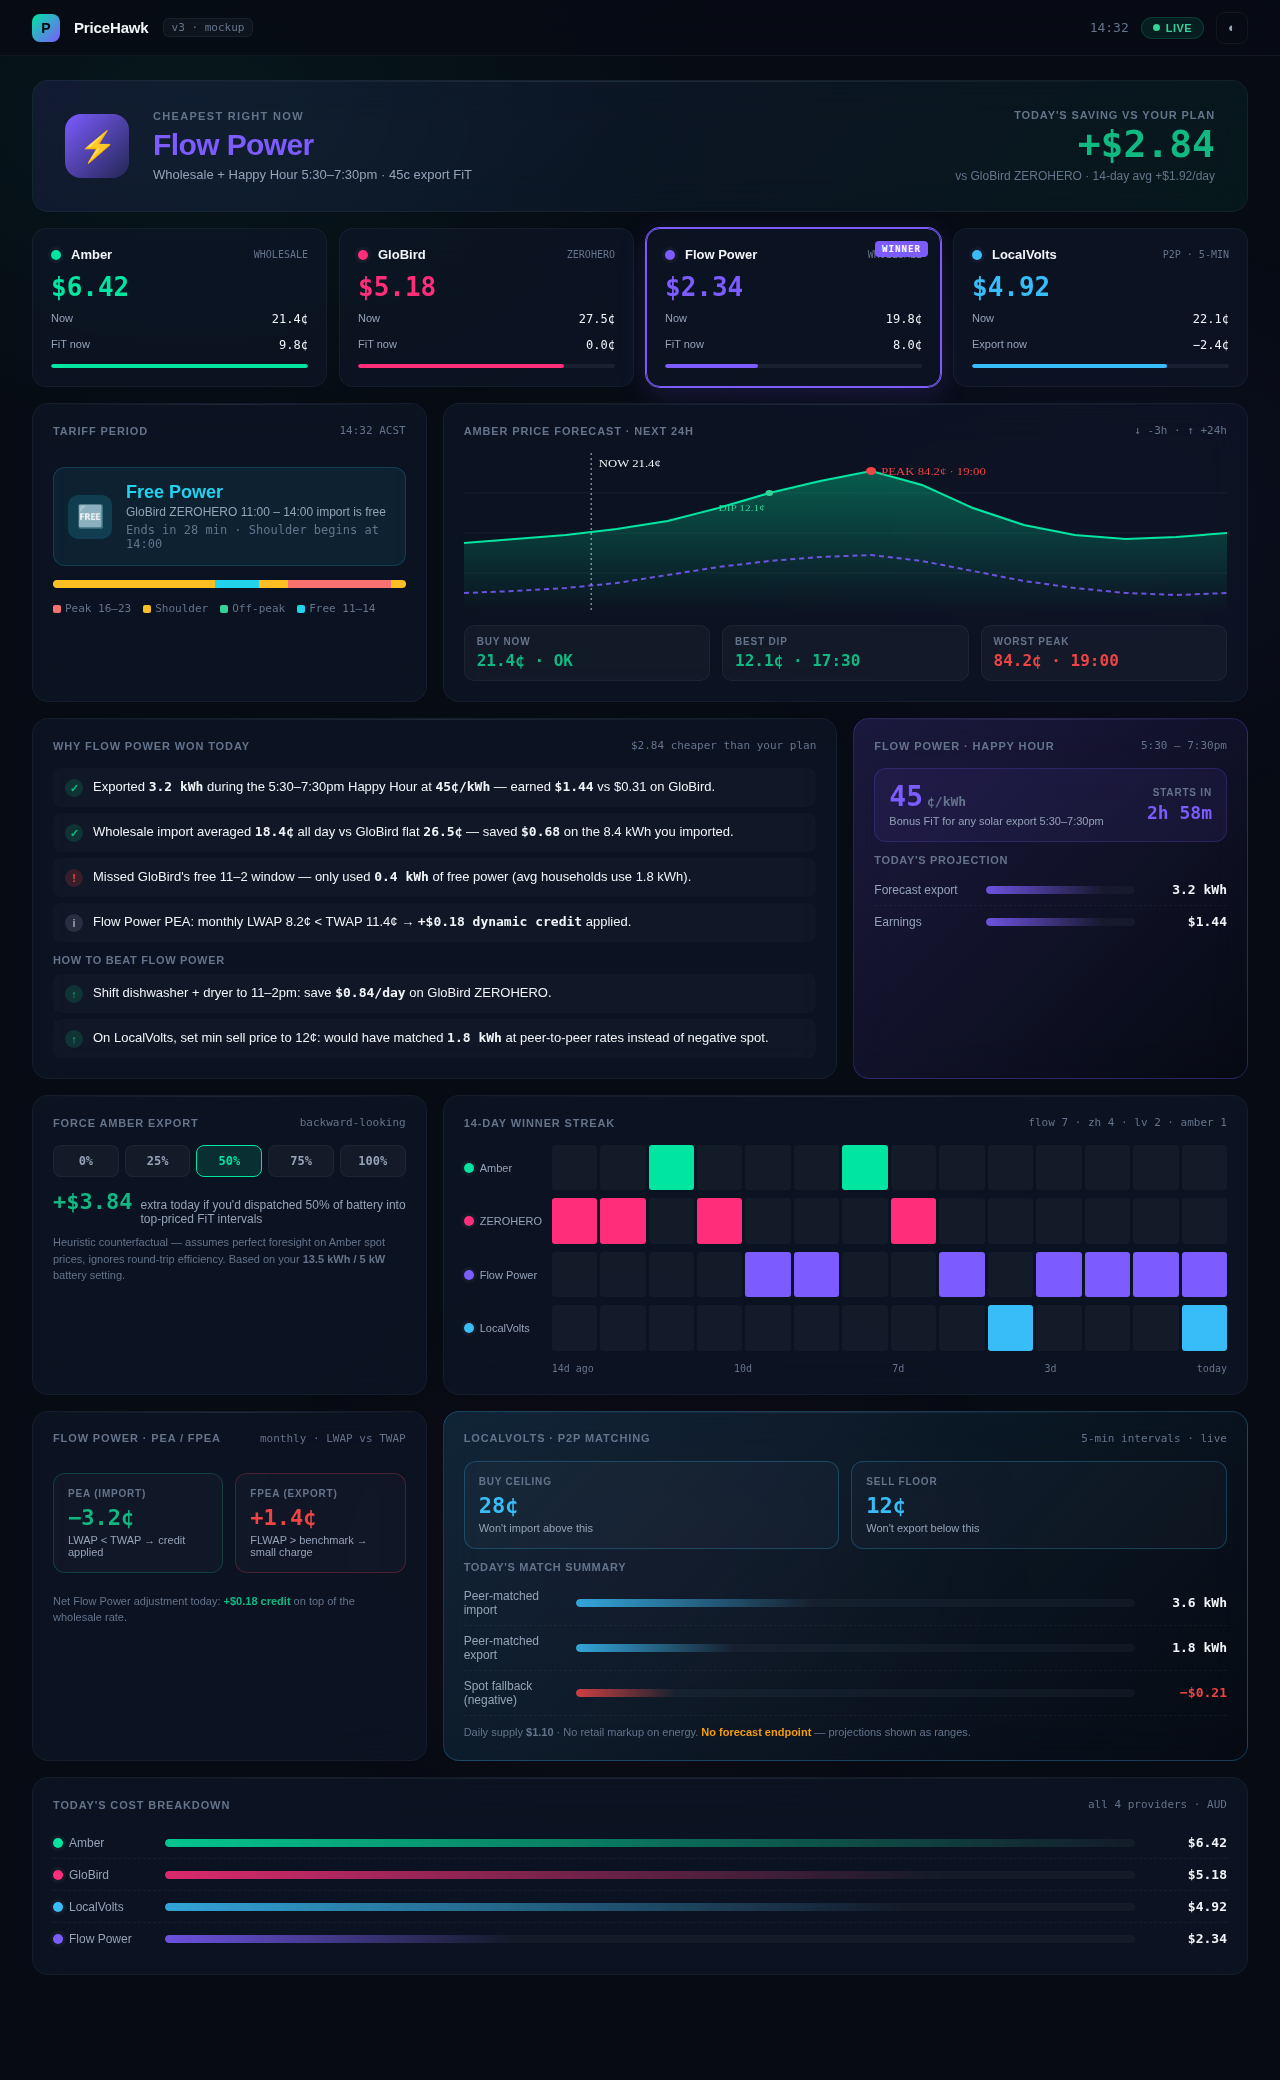
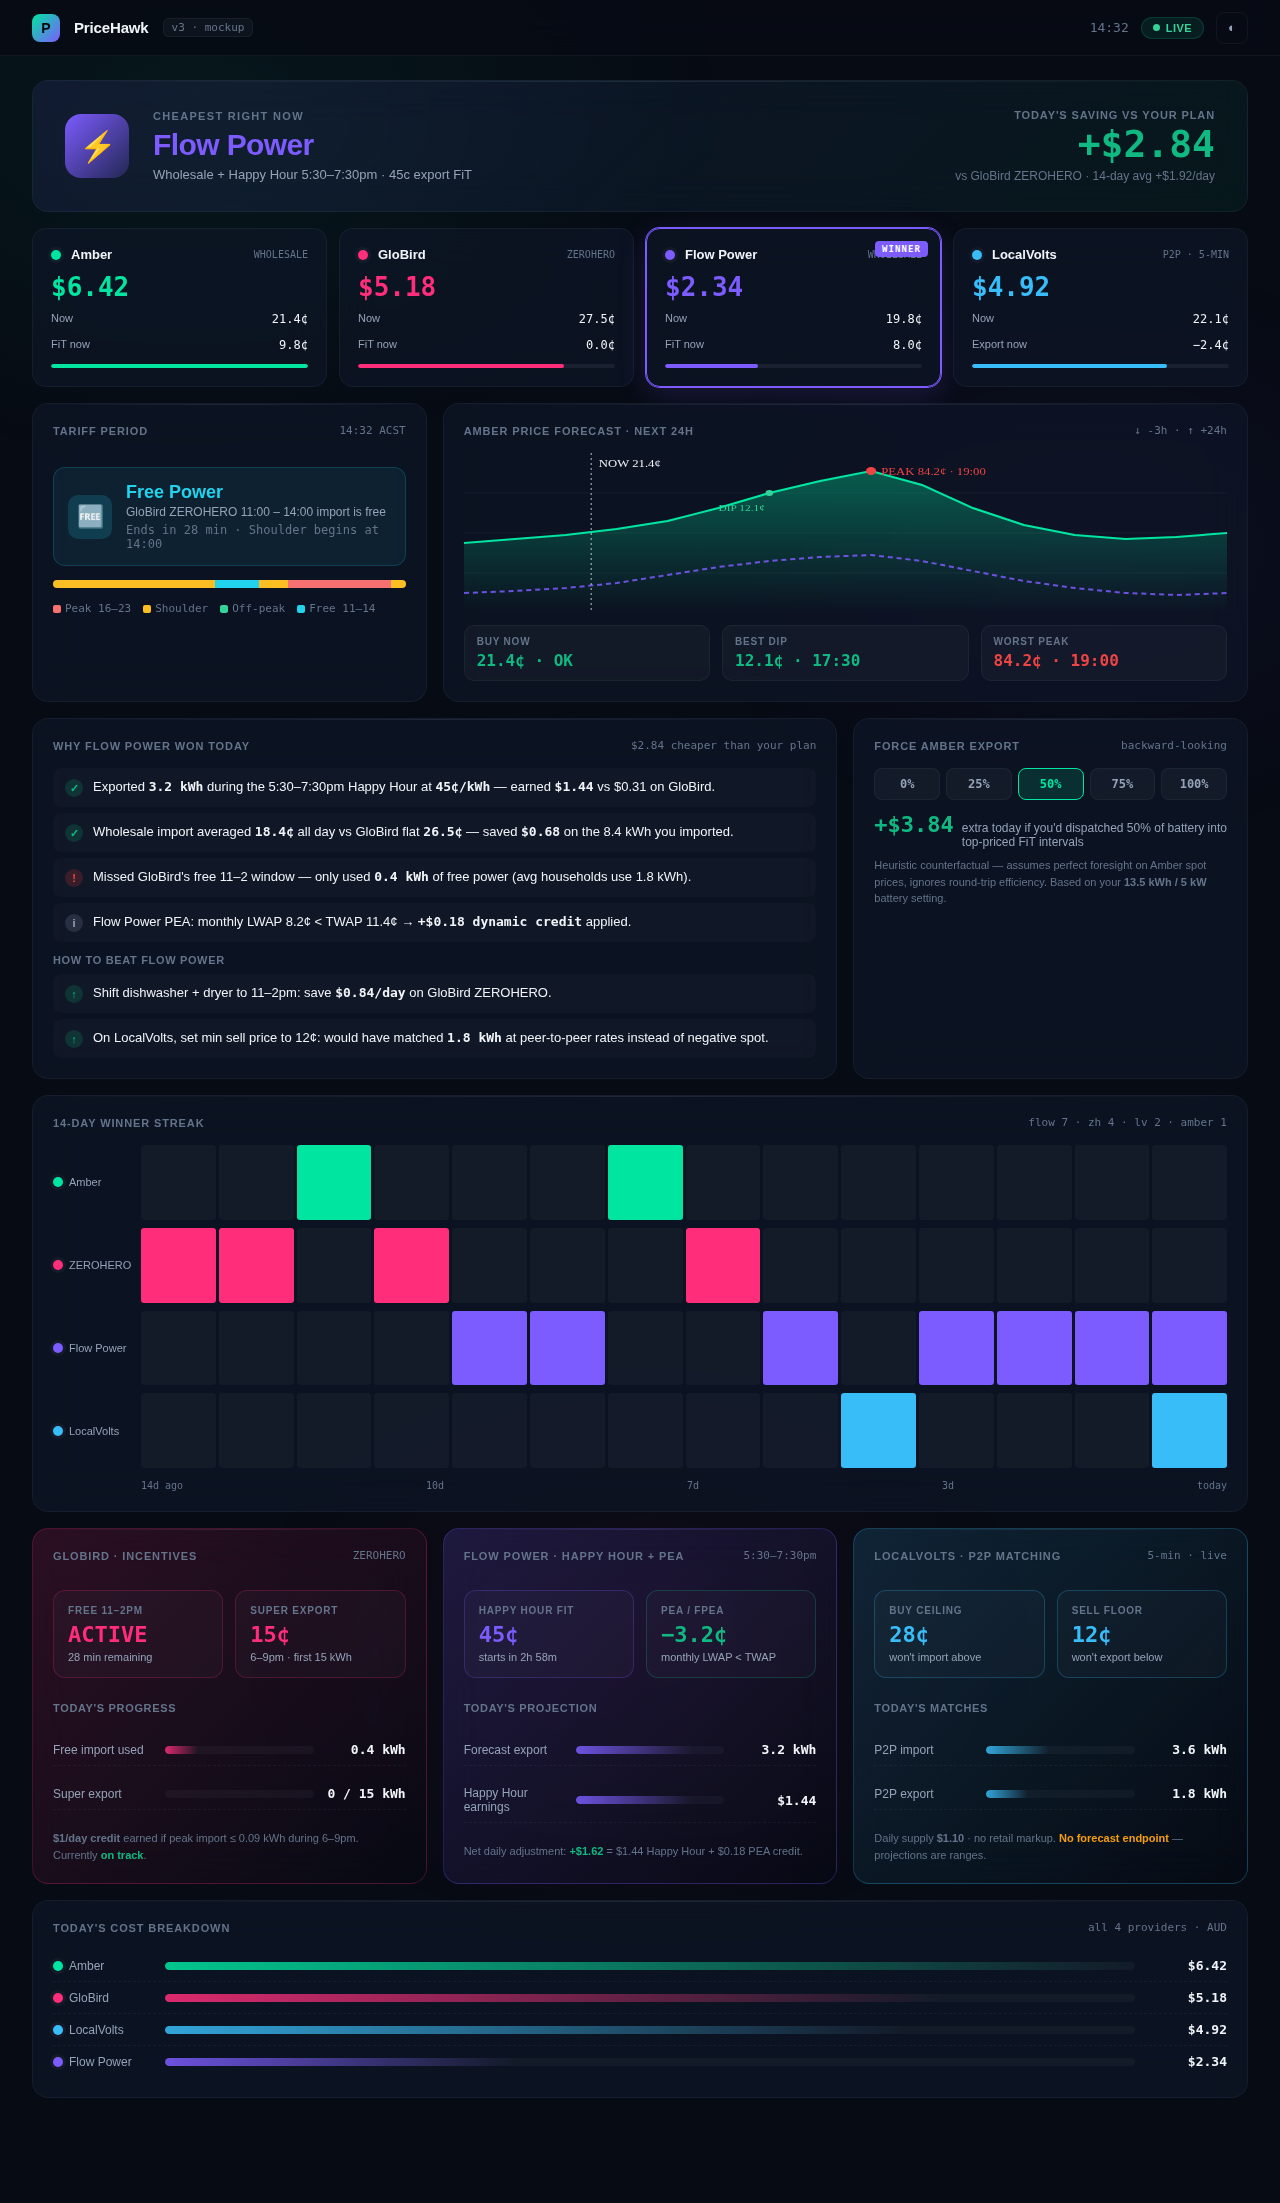
docs(mockup): combine Flow Power cards, add GloBird incentives, equalise widths
- Merge the separate Flow Power Happy Hour and PEA/FPEA cards into one
  combined "Flow Power · Happy Hour + PEA" card.
- Add a parallel "GloBird · Incentives" card showing free 11-2pm window,
  6-9pm super export progress, and $1/day credit status.
- Resize LocalVolts P2P card from span-2 to 1 col so the three
  provider-feature cards have equal real estate in a single row.
- Stretch 14-day heatmap to span-3 to absorb the freed column.

https://claude.ai/code/session_01LF5PbqLp7um3WGN8HZ3G4y

diff --git a/assets/dashboard-v3-mockup.html b/assets/dashboard-v3-mockup.html
@@ -747,35 +747,6 @@ body {
     </div>
   </div>
 
-  <!-- FLOW POWER HAPPY HOUR -->
-  <div class="card flow-fit-card">
-    <div class="card-header">
-      <div class="card-title">Flow Power · Happy Hour</div>
-      <div class="card-meta">5:30 – 7:30pm</div>
-    </div>
-    <div class="fit-window">
-      <div>
-        <div class="fit-rate mono">45<span class="fit-rate-unit">¢/kWh</span></div>
-        <div class="fit-window-text">Bonus FiT for any solar export 5:30–7:30pm</div>
-      </div>
-      <div class="fit-countdown">
-        <div class="fit-countdown-label">Starts in</div>
-        <div class="fit-countdown-value mono">2h 58m</div>
-      </div>
-    </div>
-    <div class="section-header">Today's projection</div>
-    <div class="bd-row">
-      <span class="bd-label">Forecast export</span>
-      <div class="bd-bar-track"><div class="bd-bar-fill bd-flow" style="width: 78%"></div></div>
-      <span class="bd-value mono">3.2 kWh</span>
-    </div>
-    <div class="bd-row">
-      <span class="bd-label">Earnings</span>
-      <div class="bd-bar-track"><div class="bd-bar-fill bd-flow" style="width: 78%"></div></div>
-      <span class="bd-value mono">$1.44</span>
-    </div>
-  </div>
-
   <!-- BATTERY COUNTERFACTUAL (FORCE AMBER EXPORT) -->
   <div class="card">
     <div class="card-header">
@@ -799,7 +770,7 @@ body {
   </div>
 
   <!-- 14-DAY HEATMAP -->
-  <div class="card span-2">
+  <div class="card span-3">
     <div class="card-header">
       <div class="card-title">14-Day Winner Streak</div>
       <div class="card-meta">flow 7 · zh 4 · lv 2 · amber 1</div>
@@ -887,65 +858,105 @@ body {
     </div>
   </div>
 
-  <!-- FLOW POWER PEA / FPEA -->
-  <div class="card pea-card">
+  <!-- GLOBIRD INCENTIVES -->
+  <div class="card pea-card" style="background: linear-gradient(135deg, var(--globird-glow), transparent); border-color: rgba(255,45,122,0.22);">
     <div class="card-header">
-      <div class="card-title">Flow Power · PEA / FPEA</div>
-      <div class="card-meta">monthly · LWAP vs TWAP</div>
+      <div class="card-title">GloBird · Incentives</div>
+      <div class="card-meta">ZEROHERO</div>
     </div>
     <div class="pea-pair">
-      <div class="pea-tile positive">
-        <div class="pea-tile-label">PEA (import)</div>
-        <div class="pea-tile-value mono">−3.2¢</div>
-        <div class="pea-tile-sub">LWAP &lt; TWAP → credit applied</div>
+      <div class="pea-tile" style="border-color: rgba(255,45,122,0.22);">
+        <div class="pea-tile-label">Free 11–2pm</div>
+        <div class="pea-tile-value mono" style="color: var(--globird-primary)">ACTIVE</div>
+        <div class="pea-tile-sub">28 min remaining</div>
       </div>
-      <div class="pea-tile negative">
-        <div class="pea-tile-label">FPEA (export)</div>
-        <div class="pea-tile-value mono">+1.4¢</div>
-        <div class="pea-tile-sub">FLWAP &gt; benchmark → small charge</div>
+      <div class="pea-tile" style="border-color: rgba(255,45,122,0.22);">
+        <div class="pea-tile-label">Super Export</div>
+        <div class="pea-tile-value mono" style="color: var(--globird-primary)">15¢</div>
+        <div class="pea-tile-sub">6–9pm · first 15 kWh</div>
       </div>
     </div>
+    <div class="section-header">Today's progress</div>
+    <div class="bd-row">
+      <span class="bd-label">Free import used</span>
+      <div class="bd-bar-track"><div class="bd-bar-fill bd-globird" style="width: 22%"></div></div>
+      <span class="bd-value mono">0.4 kWh</span>
+    </div>
+    <div class="bd-row">
+      <span class="bd-label">Super export</span>
+      <div class="bd-bar-track"><div class="bd-bar-fill bd-globird" style="width: 0%"></div></div>
+      <span class="bd-value mono">0 / 15 kWh</span>
+    </div>
     <div class="battery-note">
-      Net Flow Power adjustment today: <strong style="color: var(--green)">+$0.18 credit</strong> on top of the wholesale rate.
+      <strong>$1/day credit</strong> earned if peak import ≤ 0.09 kWh during 6–9pm. Currently <strong style="color: var(--green)">on track</strong>.
+    </div>
+  </div>
+
+  <!-- FLOW POWER (HAPPY HOUR + PEA combined) -->
+  <div class="card flow-fit-card pea-card">
+    <div class="card-header">
+      <div class="card-title">Flow Power · Happy Hour + PEA</div>
+      <div class="card-meta">5:30–7:30pm</div>
+    </div>
+    <div class="pea-pair">
+      <div class="pea-tile" style="border-color: rgba(124,92,255,0.25);">
+        <div class="pea-tile-label">Happy Hour FiT</div>
+        <div class="pea-tile-value mono" style="color: var(--flow-primary)">45¢</div>
+        <div class="pea-tile-sub">starts in 2h 58m</div>
+      </div>
+      <div class="pea-tile positive">
+        <div class="pea-tile-label">PEA / FPEA</div>
+        <div class="pea-tile-value mono">−3.2¢</div>
+        <div class="pea-tile-sub">monthly LWAP &lt; TWAP</div>
+      </div>
+    </div>
+    <div class="section-header">Today's projection</div>
+    <div class="bd-row">
+      <span class="bd-label">Forecast export</span>
+      <div class="bd-bar-track"><div class="bd-bar-fill bd-flow" style="width: 78%"></div></div>
+      <span class="bd-value mono">3.2 kWh</span>
+    </div>
+    <div class="bd-row">
+      <span class="bd-label">Happy Hour earnings</span>
+      <div class="bd-bar-track"><div class="bd-bar-fill bd-flow" style="width: 78%"></div></div>
+      <span class="bd-value mono">$1.44</span>
+    </div>
+    <div class="battery-note">
+      Net daily adjustment: <strong style="color: var(--green)">+$1.62</strong> = $1.44 Happy Hour + $0.18 PEA credit.
     </div>
   </div>
 
   <!-- LOCALVOLTS P2P -->
-  <div class="card span-2" style="background: linear-gradient(135deg, var(--el-glow), transparent); border-color: rgba(56,189,248,0.25);">
+  <div class="card pea-card" style="background: linear-gradient(135deg, var(--el-glow), transparent); border-color: rgba(56,189,248,0.25);">
     <div class="card-header">
       <div class="card-title">LocalVolts · P2P Matching</div>
-      <div class="card-meta">5-min intervals · live</div>
+      <div class="card-meta">5-min · live</div>
     </div>
     <div class="pea-pair">
       <div class="pea-tile" style="border-color: rgba(56,189,248,0.25);">
         <div class="pea-tile-label">Buy ceiling</div>
         <div class="pea-tile-value mono" style="color: var(--el-primary)">28¢</div>
-        <div class="pea-tile-sub">Won't import above this</div>
+        <div class="pea-tile-sub">won't import above</div>
       </div>
       <div class="pea-tile" style="border-color: rgba(56,189,248,0.25);">
         <div class="pea-tile-label">Sell floor</div>
         <div class="pea-tile-value mono" style="color: var(--el-primary)">12¢</div>
-        <div class="pea-tile-sub">Won't export below this</div>
+        <div class="pea-tile-sub">won't export below</div>
       </div>
     </div>
-    <div class="section-header">Today's match summary</div>
+    <div class="section-header">Today's matches</div>
     <div class="bd-row">
-      <span class="bd-label">Peer-matched import</span>
+      <span class="bd-label">P2P import</span>
       <div class="bd-bar-track"><div class="bd-bar-fill bd-el" style="width: 42%"></div></div>
       <span class="bd-value mono">3.6 kWh</span>
     </div>
     <div class="bd-row">
-      <span class="bd-label">Peer-matched export</span>
+      <span class="bd-label">P2P export</span>
       <div class="bd-bar-track"><div class="bd-bar-fill bd-el" style="width: 28%"></div></div>
       <span class="bd-value mono">1.8 kWh</span>
     </div>
-    <div class="bd-row">
-      <span class="bd-label">Spot fallback (negative)</span>
-      <div class="bd-bar-track"><div class="bd-bar-fill" style="width: 18%; background: linear-gradient(90deg, #EF4444, transparent);"></div></div>
-      <span class="bd-value mono" style="color: var(--red)">−$0.21</span>
-    </div>
     <div class="battery-note">
-      Daily supply <strong>$1.10</strong> · No retail markup on energy. <strong style="color: var(--amber-warn)">No forecast endpoint</strong> — projections shown as ranges.
+      Daily supply <strong>$1.10</strong> · no retail markup. <strong style="color: var(--amber-warn)">No forecast endpoint</strong> — projections are ranges.
     </div>
   </div>
 